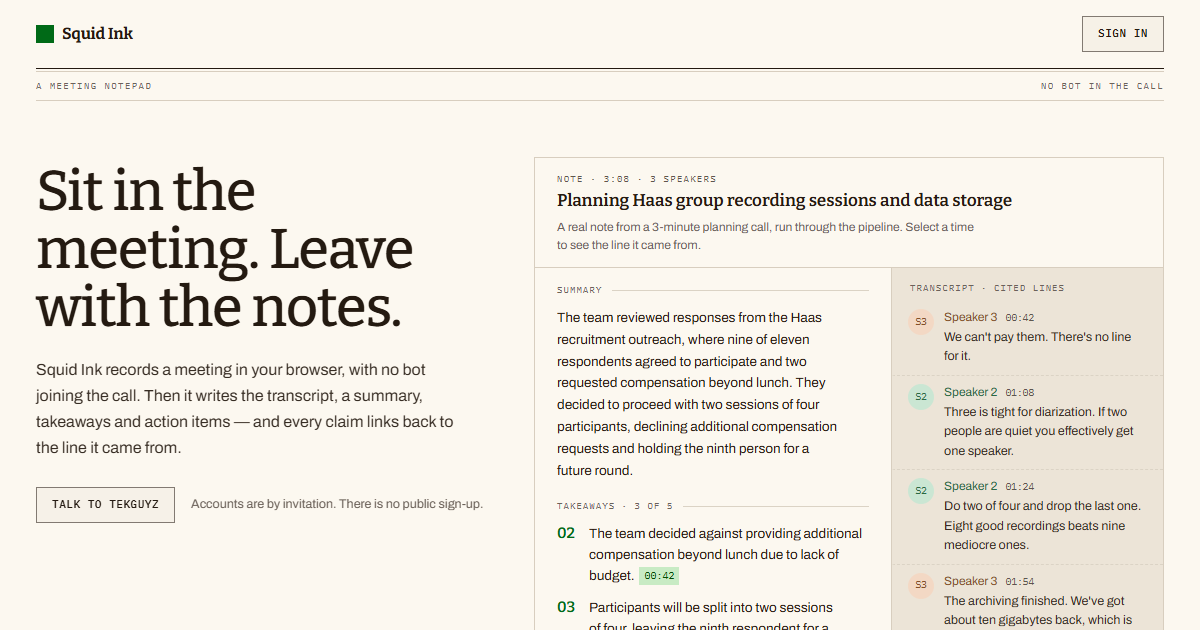
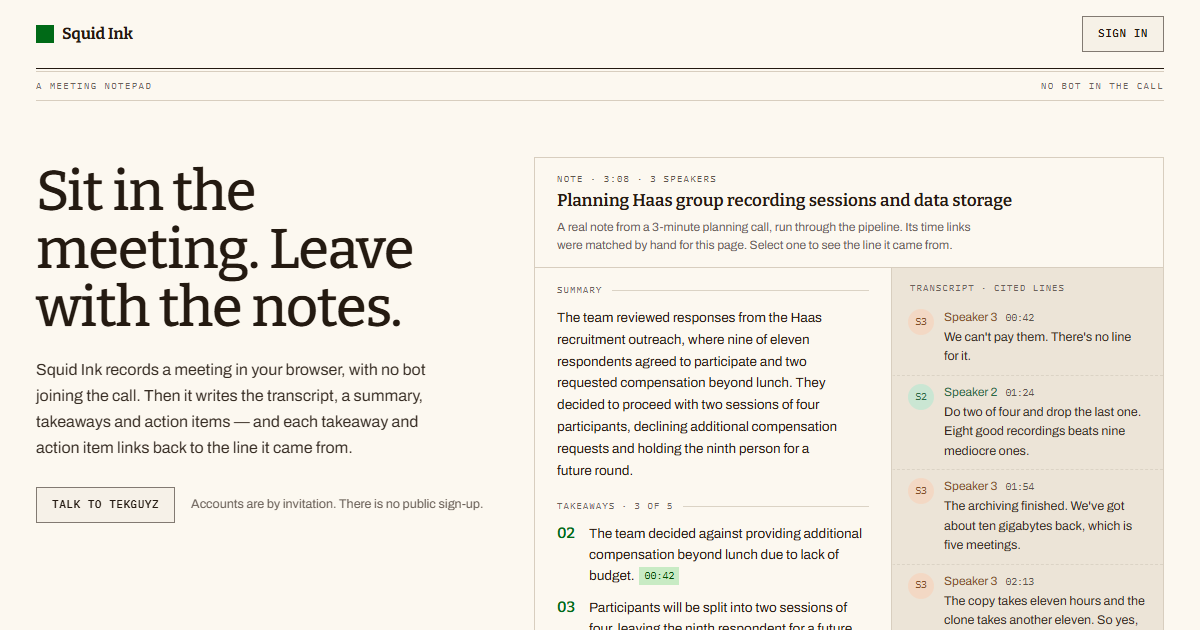
Landing page: review fixes (#60)
- Copy states only what exists: takeaways and action items are cited (not
  summaries), the recorder takes call audio and mic together, and quick
  actions are not listed because they run nothing yet.
- The specimen cites one segment per claim, as the pipeline does, and its
  caption says the links were matched by hand.
- The recorder dock's session check moves into its own server component
  under Suspense, so it never holds up the page shell.
- Persona labels follow the mono-label rule; focus offset 1.
- data-layer.md records the landing persona list as a tested exception.

diff --git a/components/landing/persona-table.tsx b/components/landing/persona-table.tsx
@@ -1,27 +1,24 @@
 /** The four personas every new account is given, as
- *  supabase/schemas/persona_provisioning.sql writes them. Two quick actions
- *  each, not four: this is a sample, and the table has to fit a phone.
- *  `__tests__/specimen.test.ts` fails if any of it stops matching the SQL. */
+ *  supabase/schemas/persona_provisioning.sql writes them. No quick actions:
+ *  the buttons exist in the app but run nothing yet, so listing them here
+ *  would claim a feature. `__tests__/specimen.test.ts` fails if any of it
+ *  stops matching the SQL. */
 export const LANDING_PERSONAS = [
   {
     name: "Neutral Analyst",
     sub: "dense · no framing",
-    actions: ["Extract decisions only", "Unanswered questions"],
   },
   {
     name: "Sales Coach",
     sub: "coaching · direct",
-    actions: ["Score objection handling", "Draft follow-up email"],
   },
   {
     name: "Investor",
     sub: "economics · risk",
-    actions: ["Unit-economics read", "Diligence questions"],
   },
   {
     name: "Engineering Lead",
     sub: "scope · sequencing",
-    actions: ["Sequencing plan", "Handoff brief"],
   },
 ] as const;
 
@@ -30,26 +27,22 @@ export function PersonaTable() {
     <div role="table" aria-label="The four default personas" className="border-rule border-t">
       <div
         role="row"
-        className="border-rule font-mono text-muted grid grid-cols-[minmax(0,1fr)_minmax(0,1fr)] gap-x-[14px] border-b py-[8px] text-[8.5px] tracking-[0.16em] uppercase max-md:sr-only md:grid-cols-[168px_150px_minmax(0,1fr)]"
+        className="border-rule font-mono text-muted grid grid-cols-[minmax(0,1fr)_minmax(0,1fr)] gap-x-[14px] border-b py-[8px] text-[8.5px] tracking-[0.16em] uppercase max-md:sr-only md:grid-cols-[200px_minmax(0,1fr)]"
       >
         <span role="columnheader">Persona</span>
         <span role="columnheader">Reads for</span>
-        <span role="columnheader">Quick actions</span>
       </div>
       {LANDING_PERSONAS.map((p) => (
         <div
           key={p.name}
           role="row"
-          className="border-rule-2 grid grid-cols-[minmax(0,1fr)_auto] items-baseline gap-x-[14px] gap-y-[4px] border-b py-[11px] md:grid-cols-[168px_150px_minmax(0,1fr)]"
+          className="border-rule-2 grid grid-cols-[minmax(0,1fr)_auto] items-baseline gap-x-[14px] border-b py-[11px] md:grid-cols-[200px_minmax(0,1fr)]"
         >
           <span role="cell" className="font-header text-ink text-[15px] font-semibold">
             {p.name}
           </span>
-          <span role="cell" className="font-mono text-meta-3 text-[10px] tracking-[0.04em]">
+          <span role="cell" className="font-mono text-meta-3 text-[9.5px] tracking-[0.08em] uppercase">
             {p.sub}
-          </span>
-          <span role="cell" className="text-ink-2 text-[13px] leading-[1.5] max-md:col-span-2">
-            {p.actions.join(" · ")}
           </span>
         </div>
       ))}

diff --git a/components/landing/landing-page.tsx b/components/landing/landing-page.tsx
@@ -19,7 +19,7 @@ import { PersonaTable } from "./persona-table";
  * that does not exist; no figure nobody measured.
  */
 
-const FOCUS = "focus-visible:outline-2 focus-visible:outline-offset-2 focus-visible:outline-accent";
+const FOCUS = "focus-visible:outline-2 focus-visible:outline-offset-1 focus-visible:outline-accent";
 
 const WRAP = "mx-auto w-full max-w-[1180px] px-4 sm:px-[26px]";
 
@@ -36,7 +36,7 @@ const STEPS = [
   {
     n: "01",
     title: "Record",
-    body: "In the browser, from the call’s audio, your mic, or both. Nothing joins the call and nothing asks for your calendar.",
+    body: "In the browser, from the call’s audio and your mic together. Nothing joins the call and nothing asks for your calendar.",
   },
   {
     n: "02",
@@ -46,7 +46,7 @@ const STEPS = [
   {
     n: "03",
     title: "Write up",
-    body: "A summary, numbered takeaways and action items. Each claim carries a citation to the segment it came from.",
+    body: "A summary, numbered takeaways and action items. Each takeaway and action item cites the segment it came from.",
   },
 ] as const;
 
@@ -102,8 +102,8 @@ export function LandingPage() {
             </h1>
             <p className="text-ink-2 mt-[20px] max-w-[46ch] text-[16px] leading-[1.62] text-pretty">
               Squid Ink records a meeting in your browser, with no bot joining the call. Then
-              it writes the transcript, a summary, takeaways and action items — and every claim
-              links back to the line it came from.
+              it writes the transcript, a summary, takeaways and action items — and each
+              takeaway and action item links back to the line it came from.
             </p>
             {/* The demo entry goes first in this row when it ships (#19). It
                 is a button in a form, never a link: docs/adr/0001. Until then
@@ -145,7 +145,7 @@ export function LandingPage() {
             <p className="text-ink-2 mt-[14px] max-w-[62ch] text-[14.5px] leading-[1.66] text-pretty">
               A persona decides how a note is written. Its lens is whose expertise frames the
               analysis. Its depth — Brief, Dense or Exhaustive — is how much work goes into
-              it. Each one also drafts the follow-up, like a client email or a handoff brief.
+              it. Every account starts with these four.
             </p>
             <div className="mt-[22px]">
               <PersonaTable />

diff --git a/components/landing/specimen.ts b/components/landing/specimen.ts
@@ -9,9 +9,11 @@ import type { Segment } from "@/lib/notes/view-types";
  * of embeddings, and the page needs about 2 KB of it.
  *
  * ONE THING IS CHOSEN BY HAND: which segment each chip cites. The fixture's
- * chunks carry no citation runs, so the pairing here was made by reading the
- * transcript. Each chip points at the line that says what its claim says; the
- * test checks the times and speakers, and a reader can check the rest.
+ * chunks carry no citation metadata, so the pairing here was made by reading
+ * the transcript, and the page's caption says so. One segment per claim, as
+ * the pipeline writes them. Each chip points at the line that says what its
+ * claim says; the test checks the times and speakers, and a reader can check
+ * the rest.
  */
 
 export const SPECIMEN_TITLE = "Planning Haas group recording sessions and data storage";
@@ -25,7 +27,8 @@ export const SPECIMEN_SUMMARY =
 export interface SpecimenClaim {
   n: string;
   text: string;
-  /** Segment ids (the fixture's `seq`) this claim cites. */
+  /** Segment ids (the fixture's `seq`) this claim cites. One, as the pipeline
+   *  writes them; an array only so a claim could carry none. */
   cites: number[];
 }
 
@@ -38,7 +41,7 @@ export const SPECIMEN_TAKEAWAYS: SpecimenClaim[] = [
   {
     n: "03",
     text: "Participants will be split into two sessions of four, leaving the ninth respondent for a future round to maintain diarization quality.",
-    cites: [13, 16],
+    cites: [16],
   },
   {
     n: "04",
@@ -68,12 +71,6 @@ const S3 = { name: "Speaker 3", initials: "S3", token: "speaker-3" } as const;
  *  recording, and the page marks them. */
 export const SPECIMEN_SEGMENTS: Segment[] = [
   { id: 8, time: "00:42", speaker: S3, text: "We can't pay them. There's no line for it." },
-  {
-    id: 13,
-    time: "01:08",
-    speaker: S2,
-    text: "Three is tight for diarization. If two people are quiet you effectively get one speaker.",
-  },
   {
     id: 16,
     time: "01:24",

diff --git a/app/layout.tsx b/app/layout.tsx
@@ -1,8 +1,8 @@
 import type { Metadata } from "next";
 import { Bitter, Archivo, IBM_Plex_Mono } from "next/font/google";
-import { RecorderDock } from "@/components/recorder/recorder-dock";
+import { Suspense } from "react";
+import { SignedInDock } from "@/components/recorder/signed-in-dock";
 import { ThemeBoot } from "@/components/theme-boot";
-import { getCurrentUser } from "@/lib/auth/current-user";
 import "./globals.css";
 
 const bitter = Bitter({
@@ -34,7 +34,7 @@ export const metadata: Metadata = {
   description: "Review a note and its source transcript.",
 };
 
-export default async function RootLayout({
+export default function RootLayout({
   children,
 }: Readonly<{ children: React.ReactNode }>) {
   return (
@@ -51,13 +51,11 @@ export default async function RootLayout({
         {/* Mounted here, not per route: the HUD has to survive navigation, and
             the recorder store lives at module scope so it never resets. This
             layout stays a server component — the dock is an isolated client
-            island, not a reason to convert the shell.
-
-            Only with a session (issue #60). The landing page sits at "/" with
-            none, and a Record pill there would offer a recording with nowhere
-            to go. Sign-in and sign-out are Server Actions that write cookies,
-            which re-render this layout, so the answer does not go stale. */}
-        {(await getCurrentUser()) ? <RecorderDock /> : null}
+            island, not a reason to convert the shell. Only with a session:
+            components/recorder/signed-in-dock.tsx. */}
+        <Suspense fallback={null}>
+          <SignedInDock />
+        </Suspense>
       </body>
     </html>
   );

diff --git a/components/landing/__tests__/specimen.test.ts b/components/landing/__tests__/specimen.test.ts
@@ -57,9 +57,10 @@ describe("the landing specimen", () => {
     }
   });
 
-  it("cites only lines the specimen shows", () => {
+  it("cites one line per claim, as the pipeline does, and only lines it shows", () => {
     const shown = new Set(SPECIMEN_SEGMENTS.map((s) => s.id));
     for (const claim of [...SPECIMEN_TAKEAWAYS, ...SPECIMEN_ACTIONS]) {
+      expect(claim.cites.length).toBeLessThanOrEqual(1);
       for (const id of claim.cites) expect(shown.has(id)).toBe(true);
     }
   });
@@ -68,10 +69,8 @@ describe("the landing specimen", () => {
 describe("the landing persona table", () => {
   const sql = readFileSync("supabase/schemas/persona_provisioning.sql", "utf8");
 
-  it("lists the default personas a new account is given, with their real quick actions", () => {
-    for (const p of LANDING_PERSONAS) {
-      expect(sql).toContain(`'${p.name}', '${p.sub}'`);
-      for (const action of p.actions) expect(sql).toContain(`'${action}'`);
-    }
+  it("lists exactly the default personas a new account is given", () => {
+    for (const p of LANDING_PERSONAS) expect(sql).toContain(`'${p.name}', '${p.sub}'`);
+    expect(sql.match(/\(new\.id, '/g)).toHaveLength(LANDING_PERSONAS.length);
   });
 });

diff --git a/app/page.tsx b/app/page.tsx
@@ -42,14 +42,16 @@ import { feedLimit, olderHref } from "@/lib/notes/feed-page";
  * 390 as well as 1440 and 1280.
  */
 
+const LANDING_TITLE = "Squid Ink — meeting notes with no bot in the call";
+
 const LANDING_METADATA: Metadata = {
-  title: "Squid Ink — meeting notes with no bot in the call",
+  title: LANDING_TITLE,
   description:
-    "Squid Ink records a meeting in your browser, transcribes it, and writes a summary, takeaways and action items, each one linked back to what was said.",
+    "Squid Ink records a meeting in your browser, transcribes it, and writes a summary, takeaways and action items, with each takeaway and action item linked back to what was said.",
   openGraph: {
-    title: "Squid Ink — meeting notes with no bot in the call",
+    title: LANDING_TITLE,
     description:
-      "Records in your browser. Writes the note. Every claim links back to the transcript.",
+      "Records in your browser. Writes the note. Takeaways link back to the transcript.",
     siteName: "Squid Ink",
     type: "website",
   },

diff --git a/components/recorder/signed-in-dock.tsx b/components/recorder/signed-in-dock.tsx
@@ -1,0 +1,16 @@
+import { RecorderDock } from "@/components/recorder/recorder-dock";
+import { getCurrentUser } from "@/lib/auth/current-user";
+
+/**
+ * The recorder dock, only with a session (issue #60). The landing page sits at
+ * "/" with none, and a Record pill there would offer a recording with nowhere
+ * to go.
+ *
+ * Its own async server component, rendered by app/layout.tsx inside a
+ * Suspense boundary, so the auth call never holds up the page shell. Sign-in
+ * and sign-out are Server Actions that write cookies, which re-render the
+ * layout, so the answer does not go stale.
+ */
+export async function SignedInDock() {
+  return (await getCurrentUser()) ? <RecorderDock /> : null;
+}

diff --git a/components/landing/note-specimen.tsx b/components/landing/note-specimen.tsx
@@ -99,8 +99,9 @@ export function NoteSpecimen() {
           {SPECIMEN_TITLE}
         </p>
         <p className="text-muted mt-[6px] max-w-[62ch] text-[12px] leading-[1.5] text-pretty">
-          A real note from a 3-minute planning call, run through the pipeline. Select a
-          time to see the line it came from.
+          A real note from a 3-minute planning call, run through the pipeline. Its time
+          links were matched by hand for this page. Select one to see the line it came
+          from.
         </p>
       </figcaption>
 

diff --git a/lib/auth/current-user.ts b/lib/auth/current-user.ts
@@ -6,7 +6,8 @@ import { createClient } from "@/lib/supabase/server";
  *
  * `cache` makes it one auth call per request however many server components
  * ask: app/page.tsx asks twice (the page and its metadata) and app/layout.tsx
- * asks once for the recorder dock.
+ * asks once for the recorder dock
+ * (components/recorder/signed-in-dock.tsx).
  *
  * getUser, never getSession: the proxy revalidates the token on every request
  * and this reads the same revalidated identity.

diff --git a/.claude/rules/data-layer.md b/.claude/rules/data-layer.md
@@ -28,7 +28,16 @@ array. A new account gets its four rows from the database, not from app code:
 `supabase/schemas/persona_provisioning.sql` puts a `security definer` trigger on
 `auth.users` that inserts them. Accounts created before that trigger shipped
 (2026-08-31) are deliberately not backfilled, which is why the fallback below is
-still live code. `note_chunks.persona_id` attributes a takeaway to a lens, and a null
+still live code.
+
+**One exception, and it is copy, not data:** the landing page
+(`components/landing/persona-table.tsx`, issue #60) lists the four personas by
+name for a visitor with no session, who has no rows to read. It is never used
+to generate or resolve anything, and `components/landing/__tests__/specimen.test.ts`
+fails if it drifts from `persona_provisioning.sql`. `components/landing/specimen.ts`
+quotes the demo fixture the same way, under the same test.
+
+`note_chunks.persona_id` attributes a takeaway to a lens, and a null
 `persona_id` means the default persona — which is why chunks written before the
 table existed still render under Neutral Analyst. `DEFAULT_PERSONA_ID` and the
 one fallback persona for a user with no rows live in
